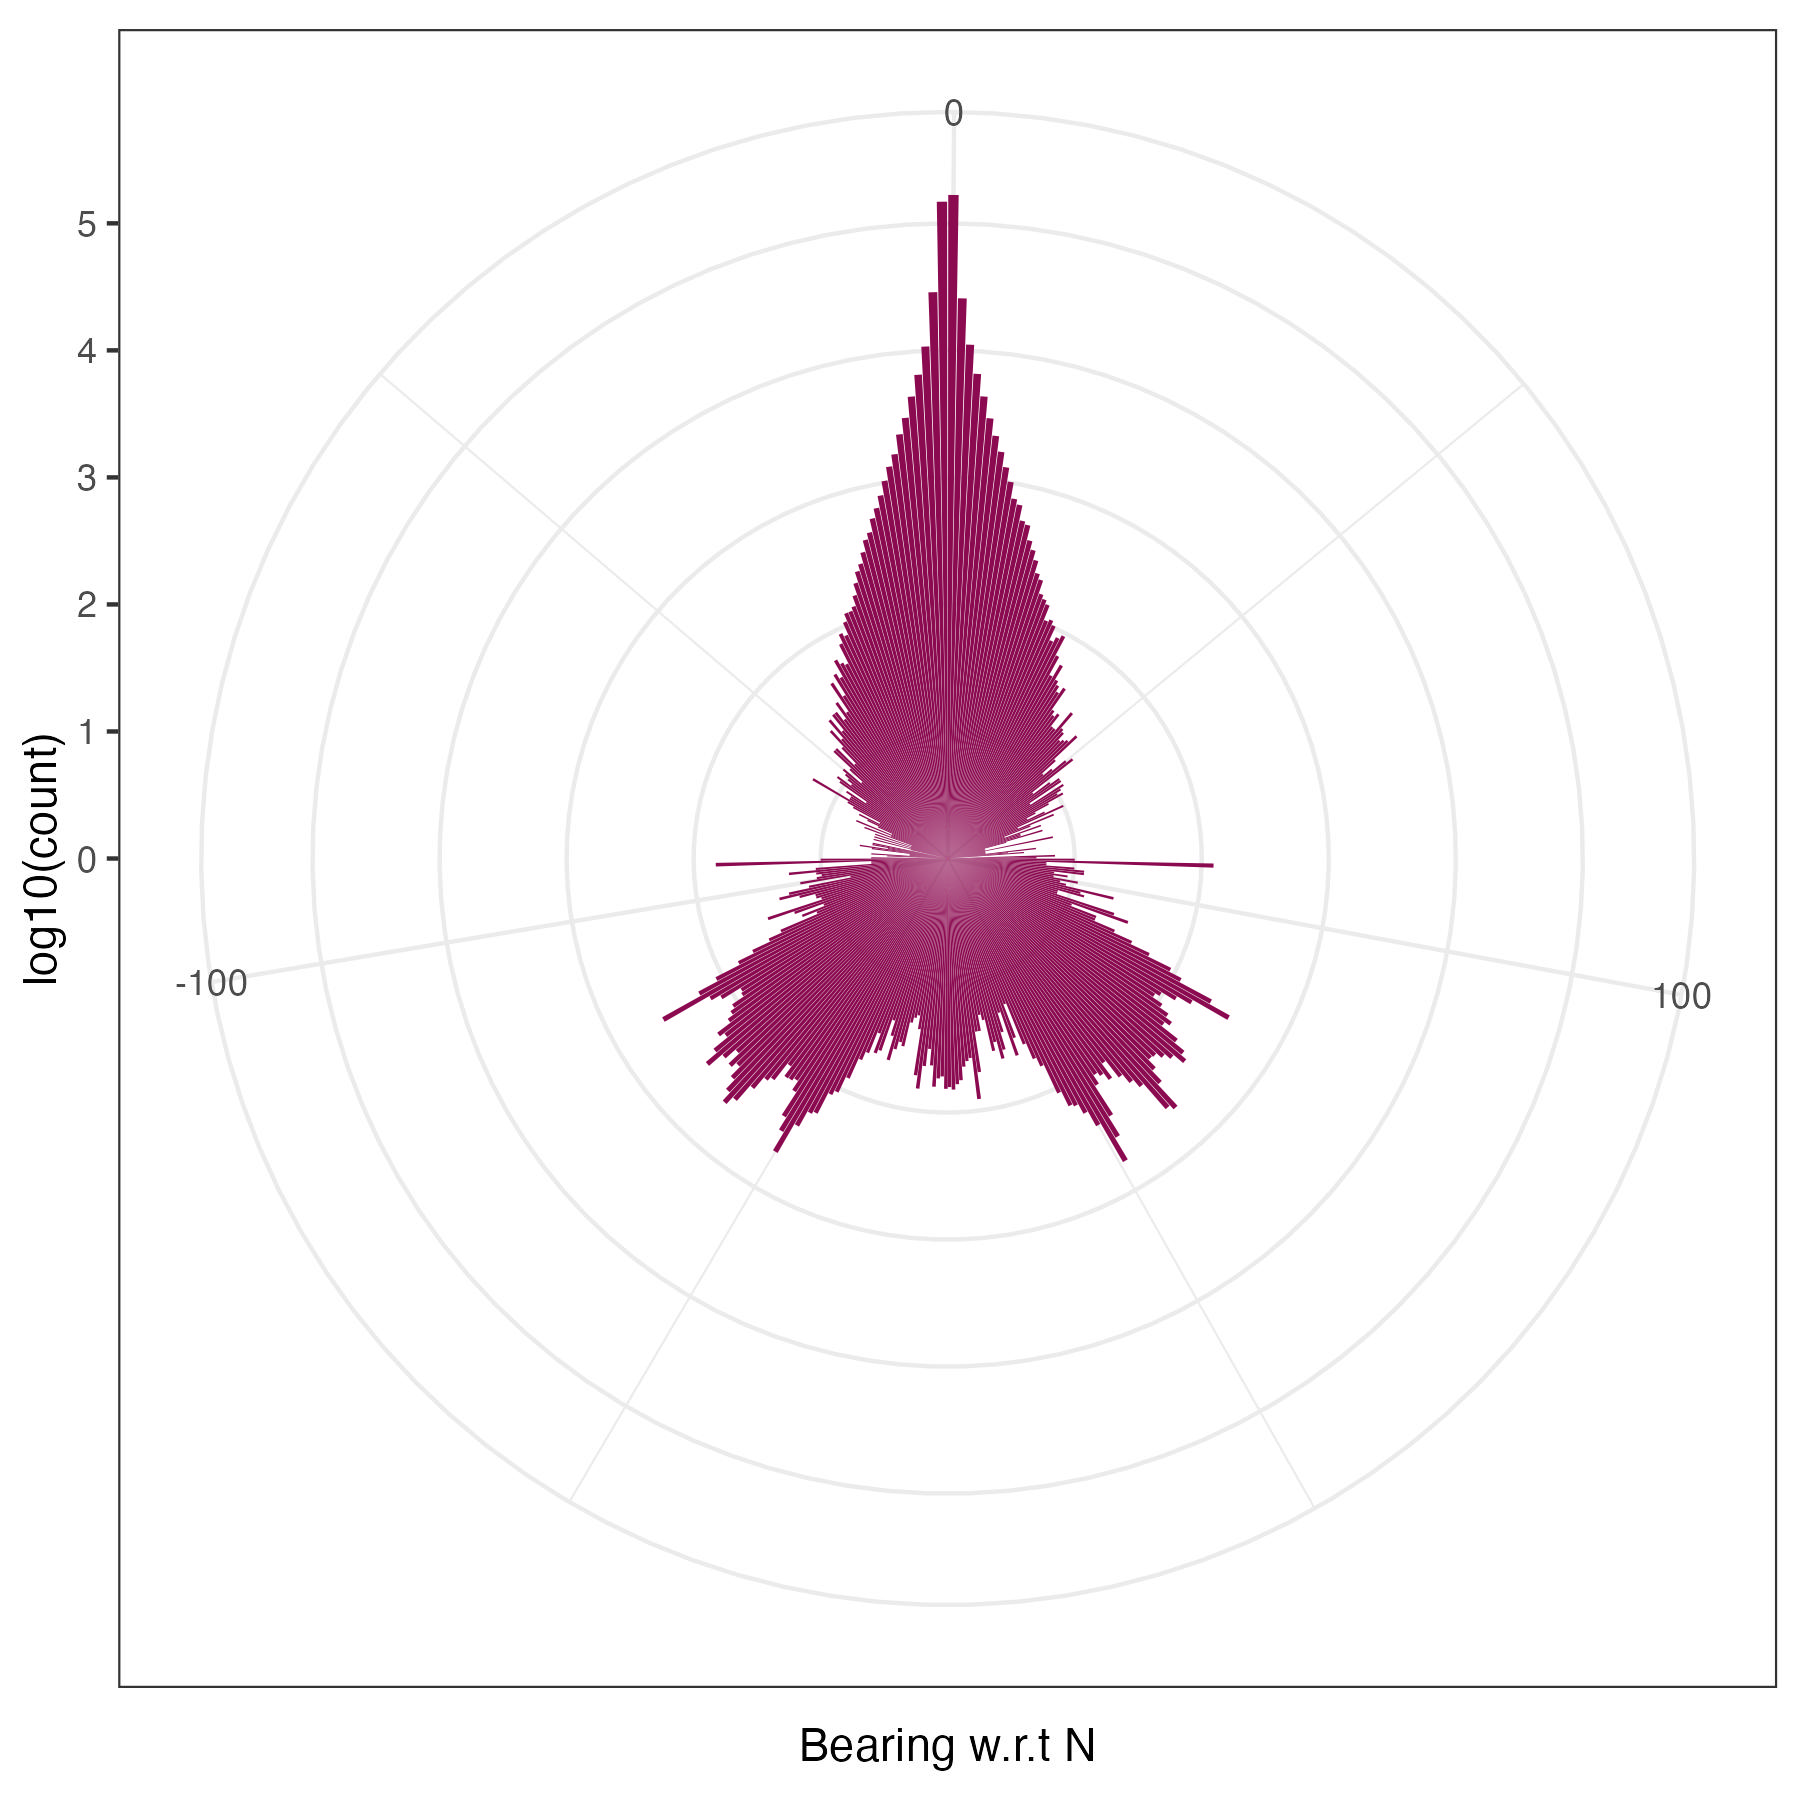
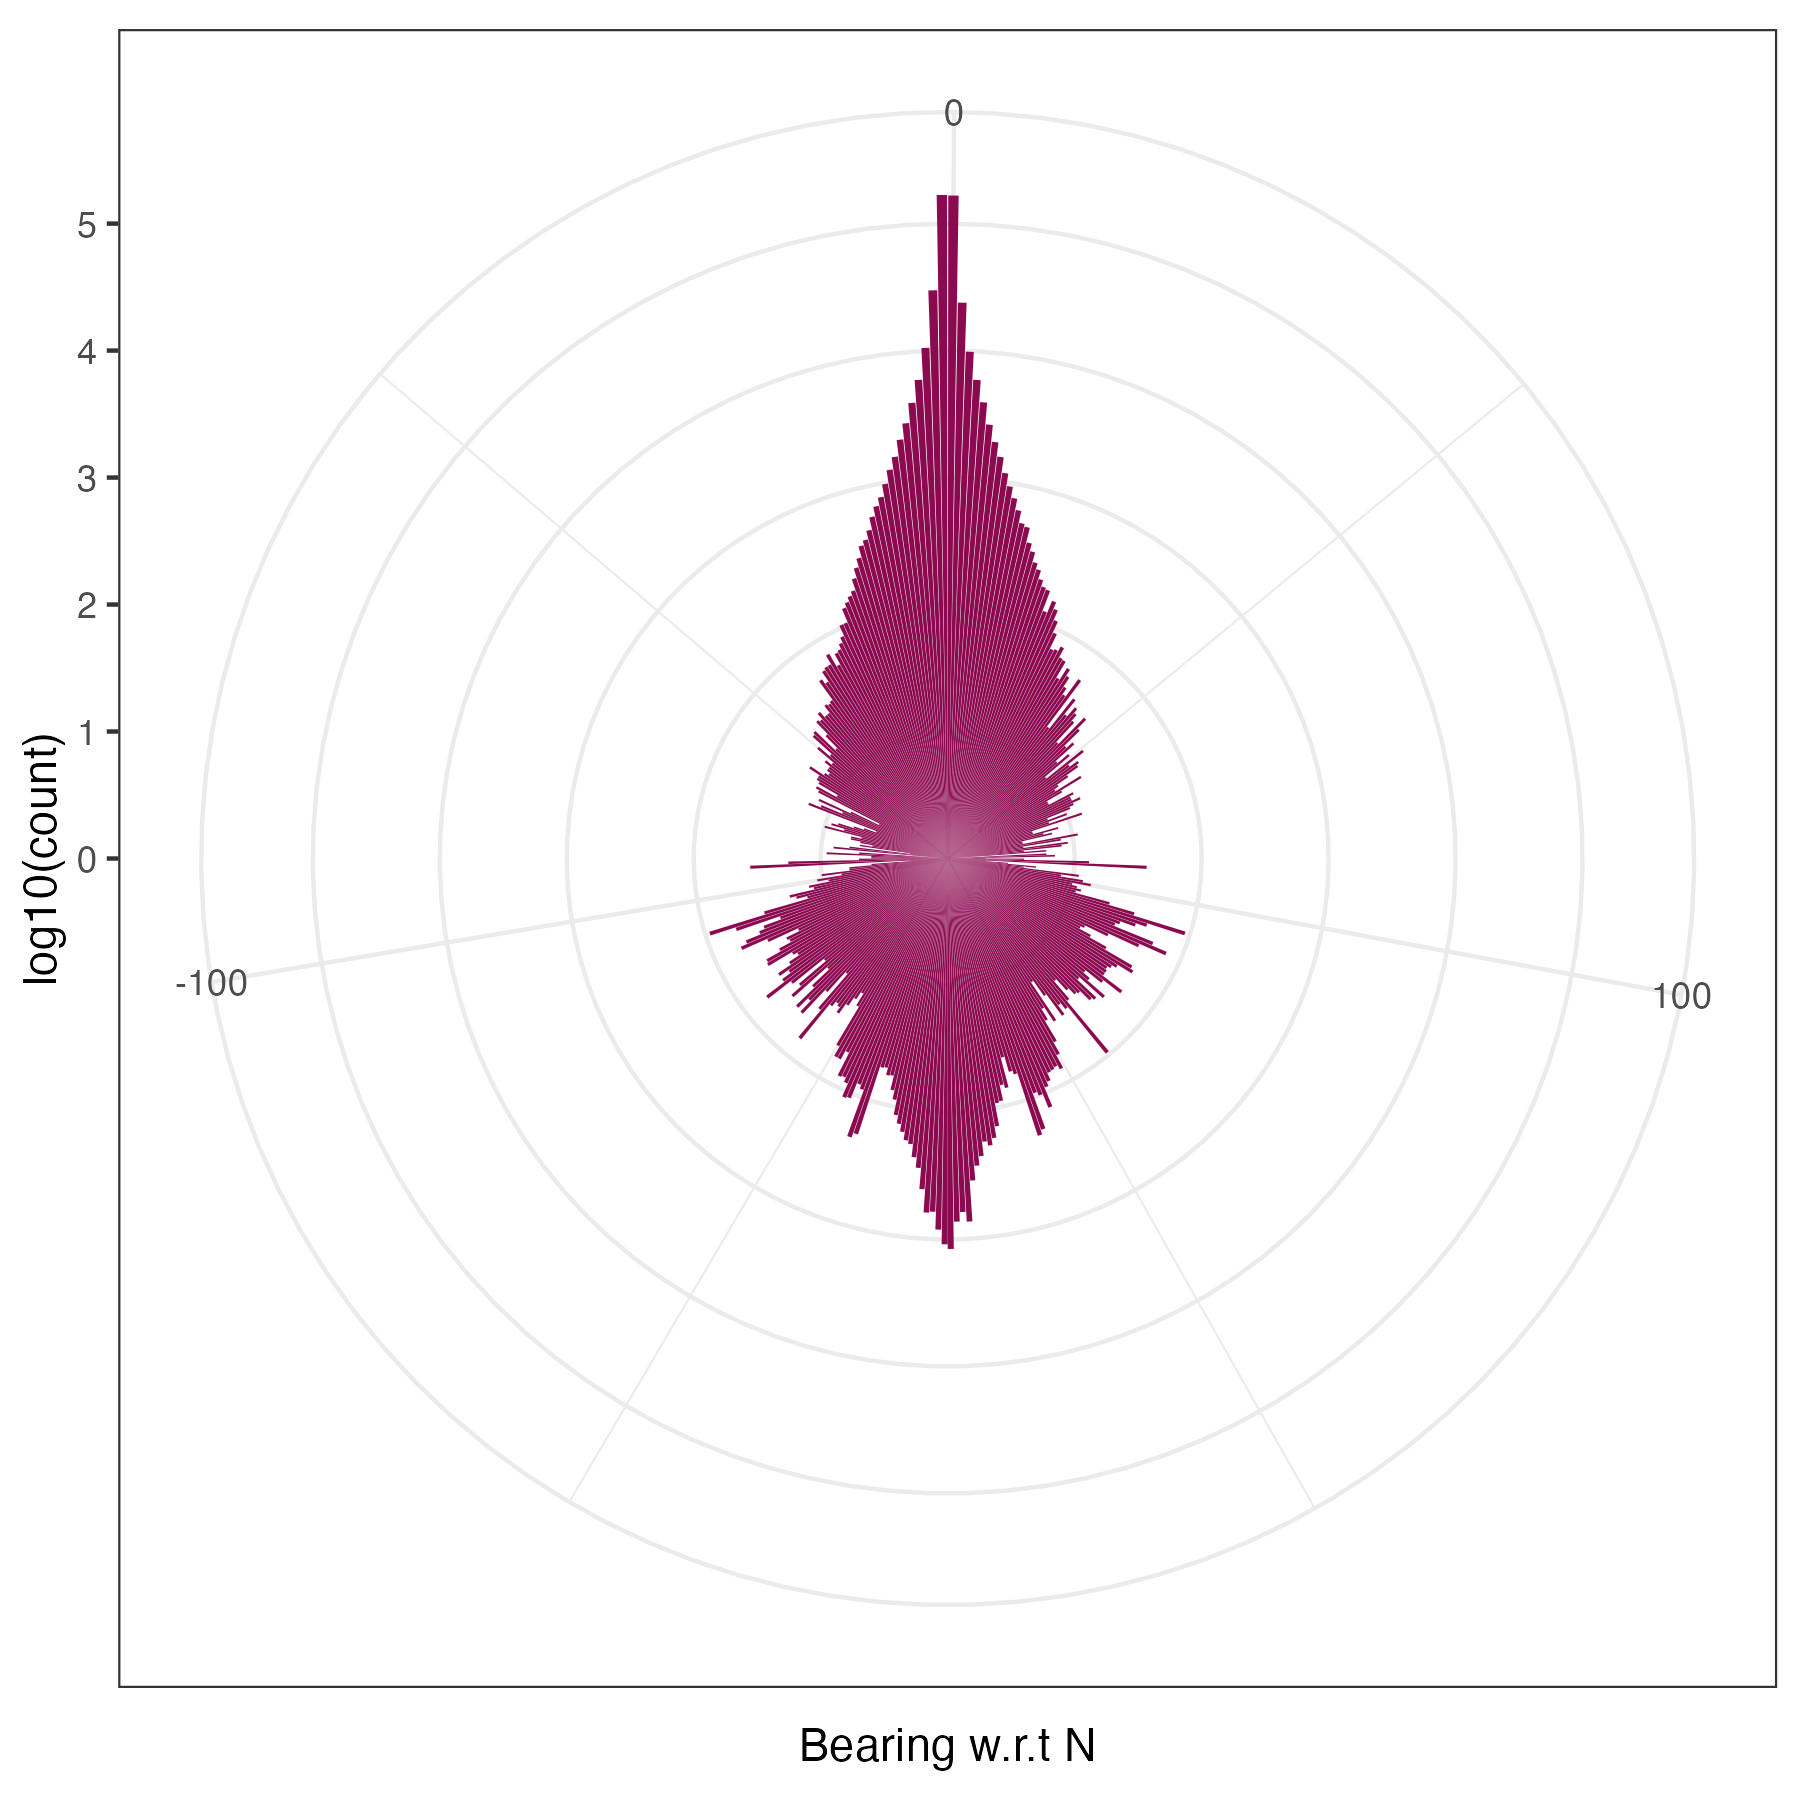
boundary option in R

Changed region(s): [[0.3733, 0.3422, 0.6844, 0.6844]]

diff --git a/boidr/src/rust/src/lib.rs b/boidr/src/rust/src/lib.rs
@@ -2,7 +2,7 @@ use boids_lib::{
     birdwatcher::Birdwatcher,
     flock::Flock,
     options::{
-        RunOptions, SaveOptions, self
+        RunOptions, SaveOptions, self, Boundary
     },
 };
 use extendr_api::prelude::*;
@@ -64,7 +64,8 @@ fn flock_detailed(
     min_speed: f32,
     max_speed: f32,
     max_steering: f32,
-    dbscan_clustering: bool) -> Robj {
+    dbscan_clustering: bool,
+    boundary_config: &str) -> Robj {
 
     let mut run_options: RunOptions = Default::default();
 
@@ -85,6 +86,13 @@ fn flock_detailed(
     run_options.max_speed = max_speed;
     run_options.max_steering = max_steering;
     run_options.dbscan_flock_clustering_on = dbscan_clustering;
+    
+    match serde_json::from_str::<Boundary>(boundary_config) {
+        Ok(boundary) => run_options.boundary = boundary,
+        Err(err) => panic!("Error, boundary deserialization failed: {}", err)
+    }
+    
+    // let boundary: Boundary = ;
     
     flock_base(no_iter, run_options)
 }
@@ -162,4 +170,52 @@ extendr_module! {
     fn flock_detailed;
     // fn force_recompile;
     fn get_convex_hull;
+}
+
+#[cfg(test)]
+mod tests {
+    use boids_lib::options::Boundary;
+
+    use super::*;
+
+    #[test]
+    fn test_boundary_setting_serializaion() {
+        let data = r#"
+        {
+            "type": "Repulsive",
+            "distance": 100,
+            "force": 0.05
+        }
+        "#;
+        
+        let boundary: Boundary = serde_json::from_str(data).unwrap();
+
+        match boundary {
+            // Boundary::Thoroidal => todo!(),
+            // Boundary::Absorbing => todo!(),
+            // Boundary::Reflective => todo!(),
+            Boundary::Repulsive { distance, force } => {
+                assert_eq!(100., distance);
+                assert_eq!(0.05, force);
+            },
+            _ => panic!("Different type of boundary inputted than is being tested.")
+        }
+    }
+    #[test]
+    fn test_boundary_setting_serializaion2() {
+        let data = r#"{"type": "Repulsive", "distance": 100, "force": 0.05}"#;
+        
+        let boundary: Boundary = serde_json::from_str(data).unwrap();
+
+        match boundary {
+            // Boundary::Thoroidal => todo!(),
+            // Boundary::Absorbing => todo!(),
+            // Boundary::Reflective => todo!(),
+            Boundary::Repulsive { distance, force } => {
+                assert_eq!(100., distance);
+                assert_eq!(0.05, force);
+            },
+            _ => panic!("Different type of boundary inputted than is being tested.")
+        }
+    }
 }

diff --git a/boids_lib/src/options.rs b/boids_lib/src/options.rs
@@ -1,3 +1,5 @@
+use serde::{Deserialize, Serialize};
+
 #[derive(Debug)]
 pub struct RunOptions {
     pub init_boids: usize,
@@ -135,8 +137,8 @@ impl Default for RunOptions {
                 save_locations_timestamp: true,
             },
             size: 8.,
-            // boundary: Boundary::Thoroidal,
-            boundary: Boundary::Repulsive{distance: 100., force: 0.05},
+            boundary: Boundary::Thoroidal,
+            // boundary: Boundary::Repulsive{distance: 100., force: 0.05},
             // boundary: Boundary::Reflective,
             distance: Distance::EucEnclosed,
             clicked_boid_id: std::usize::MAX,
@@ -202,6 +204,8 @@ pub enum InitiationStrategy {
     RandomRandom,
 }
 
+#[derive(Serialize, Deserialize)]
+#[serde(tag = "type")]
 #[derive(Debug)]
 pub enum Boundary {
     Thoroidal,
@@ -209,6 +213,8 @@ pub enum Boundary {
     Reflective,
     Repulsive{distance: f32, force: f32},
 }
+
+// {"type": "Repulsive", "distance": 100, "force": 0.05}
 
 #[derive(Debug, PartialEq)]
 pub enum Distance {
